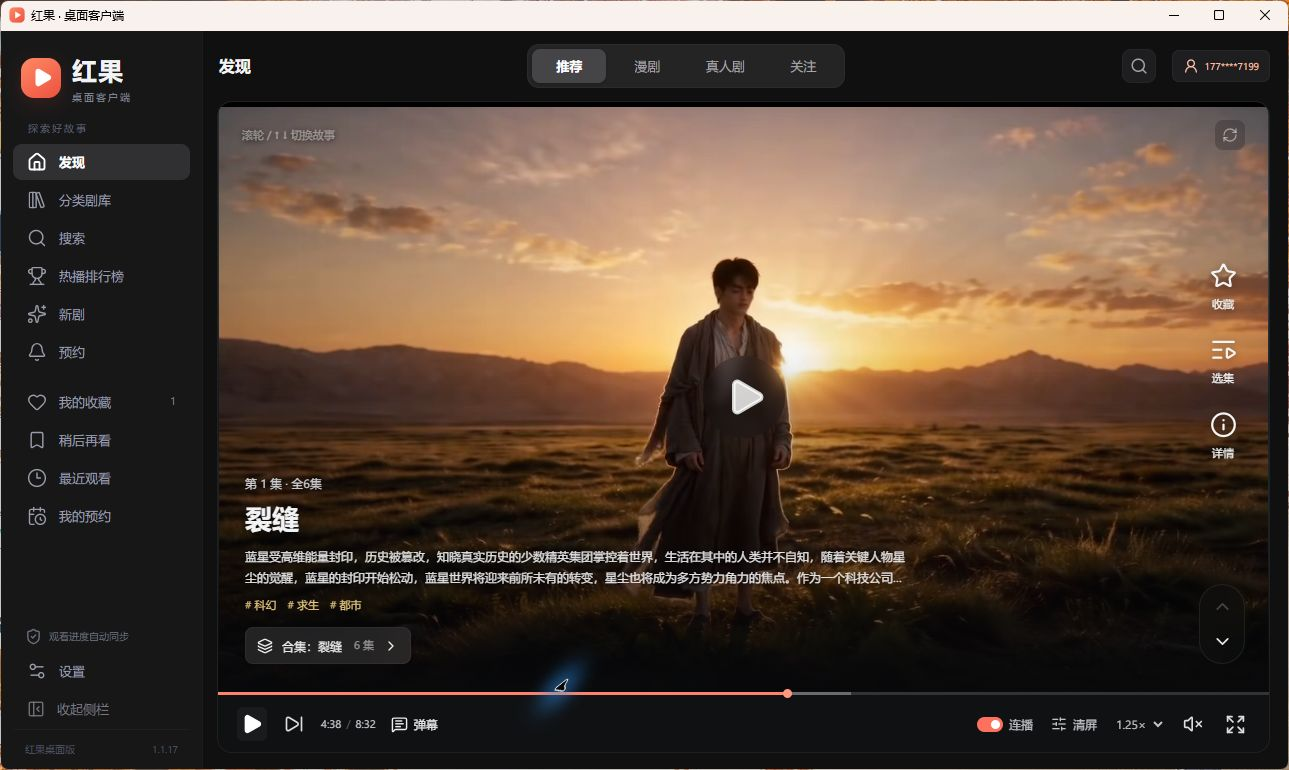
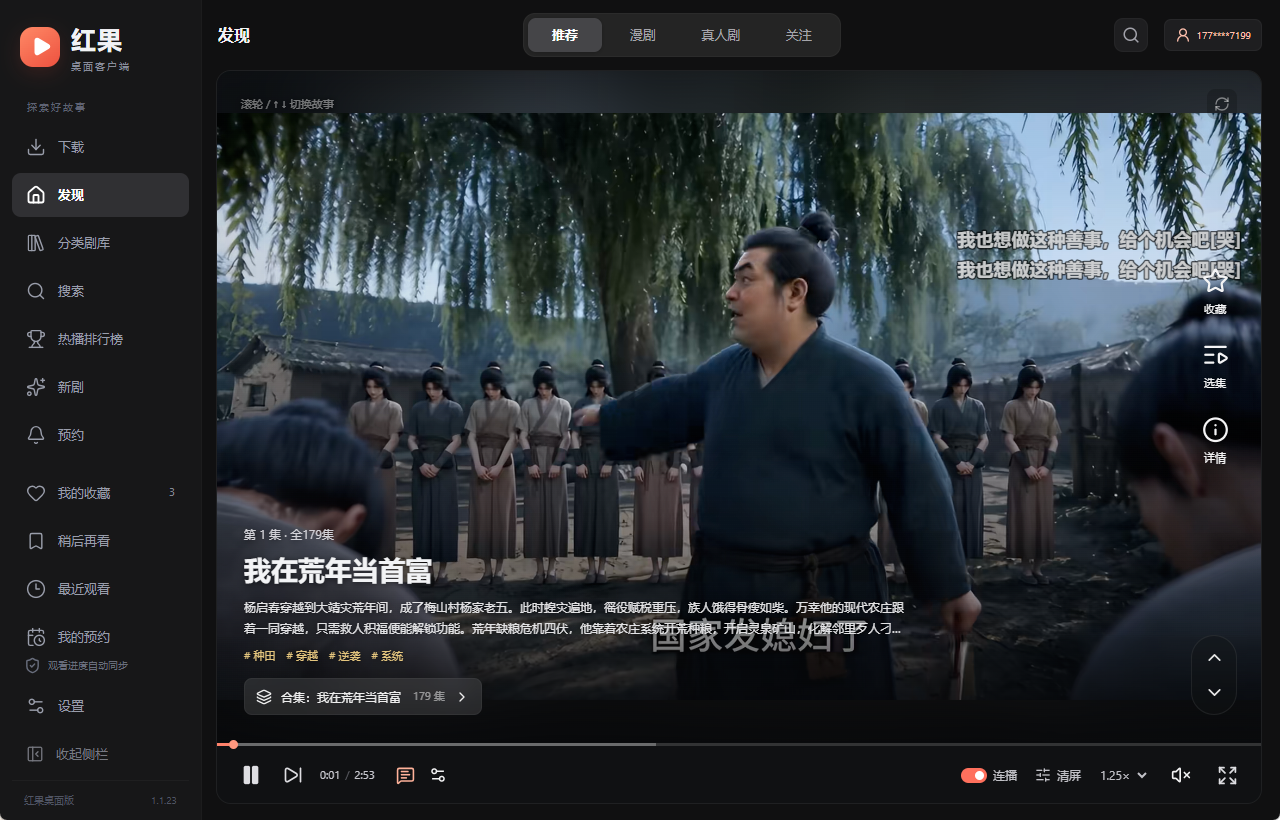
docs: refresh desktop screenshots

diff --git a/README.md b/README.md
@@ -37,7 +37,7 @@ d246298db7656a514d8e725413f89a5e90fe87084fb4ba256cef37ba782d76e7
 
 ## 界面预览
 
-以下截图均来自 Windows 桌面客户端 1.1.17 的实际运行界面。内容为拍摄时的示例，推荐与榜单会随时间变化。
+以下截图来自 Windows 桌面客户端的实际运行界面。内容为拍摄时的示例，推荐与榜单会随时间变化。
 
 ### 发现：一屏一个故事
 
@@ -57,23 +57,17 @@ d246298db7656a514d8e725413f89a5e90fe87084fb4ba256cef37ba782d76e7
 
 ![热播排行榜：热门剧集与榜单信息](docs/screenshots/ranking.png)
 
-### 剧集详情：简介、收藏与选集
-
-查看故事简介和剧集目录，收藏、加入稍后再看，或选择一集开始播放。
-
-![剧集详情：故事介绍与选集目录](docs/screenshots/detail.png)
-
-### 最近观看：接着上次的故事
-
-查看本机观看记录，按已看完、未看完筛选，快速回到上次的集数和播放位置。
-
-![最近观看：观看状态筛选与断点续播](docs/screenshots/recent.png)
-
 ### 我的预约：同步追踪想看的新剧
 
 登录后同步云端预约片单，分开查看已上线和待上线的内容；已上线的剧集可以直接开始观看。
 
 ![我的预约：已上线与待上线的云端片单](docs/screenshots/reservations.png)
+
+### 我的下载：管理本机离线片库
+
+按剧集整理已下载内容，查看已下载与总集数，播放本机分集，或补下载尚未保存的分集。
+
+![我的下载：整剧封面、下载进度与离线播放](docs/screenshots/downloads.png)
 
 ## PC 端功能
 
